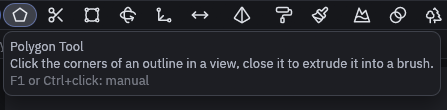
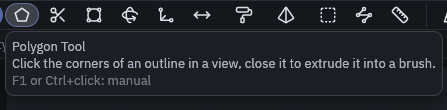
Update the interface pages for the new layout, tool row and first run card
The Panels table says what starts closed and where each panel opens, the interface page describes the loop strip, the first start card and the two tool families, and the pages that pointed at a tab next to another now say to open it from View > Panels. The mcp page lists the new get_state fields. Screenshots of the window, the panels menu, the empty map card, the README banner and the toolbar crops that moved are retaken.

diff --git a/docs/editor/interface.md b/docs/editor/interface.md
@@ -10,6 +10,11 @@ shows you around, and [Coming from Unity or Blender](coming-from-unity-blender.m
 The menus are at the top. A command sits under the kind of object it changes, so CSG is under *Brush* and terrain
 sculpting under *Terrain*.
 
+The toolbar under the menus starts with New, Open, Save, Undo and Redo, then the tools in two families. The brush
+tools come first: Select, Polygon, Clip, Vertex, Rotate, Scale and Shear, then Texture and Mesh, then Volume, Path and
+Measure. After a divider come the terrain and paint tools, Sculpt, Blend, Paint and Scatter. Grid, Snap, the CSG
+buttons and the shading toggles follow. The *Tools* menu lists the same tools in the same order.
+
 Can't find something? Press Ctrl+Shift+P (or F1) for the command palette and type its name. Commands with a jargon
 name, like *Hollow* or *UV Lock*, explain themselves when you hover them, and the palette shows the same line beneath
 its list. Escape or a click outside closes it without running anything.
@@ -23,37 +28,56 @@ use a tool that has none. Hover the tool's name there, or its button in the tool
 
 ### The empty map card
 
-On a new, empty map a card in the 3D view tells you where to start: drag in the Top view to draw your first box, and
-the Top view marks the spot with a yellow label. Below that it explains the 3D camera and links the
-[getting started guide](../getting-started.md). When the open project has maps, **Open a map from this project**
+On a new, empty map a card in the 3D view tells you where to start. Under the title it shows the loop TrenchDot is
+built around, **Block out**, **Texture it**, **Add entities** and **Play in Godot**, then says to drag in the Top view
+to draw your first box, and the Top view marks the spot with a yellow label. Below that it explains the 3D camera and
+links [Build your first room](../getting-started.md). When the open project has maps, **Open a map from this project**
 lists them, so you can open a finished one instead.
 
-![The empty map card in the 3D view with Getting Started Guide, Open a map from this project and Hide tips, beside the yellow label in the Top view](../assets/interface/empty-map-card.png)
+![The empty map card in the 3D view with the four steps, Build Your First Room, Open a map from this project and Hide tips, beside the yellow label in the Top view](../assets/interface/empty-map-card.png)
 
 The card goes away once the map has something in it. **Hide tips** turns the tips off, and *Tips on an empty map* in
 *File > Preferences* brings them back.
 
+#### The first start
+
+The very first time you start TrenchDot, the same card also asks which editor's keys you want, since that decides
+which keys pick the tools and what the key hints show. It has one row per
+[keymap preset](coming-from-hammer-trenchbroom.md), **TrenchBroom** (already picked), **Hammer** and **Blender**, with a
+line saying how it differs. Click a row to use that preset, or click **Skip** to keep TrenchBroom. Either way the
+question is gone for good, it is the only thing the first start asks. *File > Preferences > Keymap preset* changes the
+choice later. If you used an earlier TrenchDot, you never see it.
+
+![The first start card with the four steps, TrenchBroom picked in the keymap list above Hammer and Blender, Build Your First Room and Skip](../assets/interface/first-run-card.png)
+
 ### Panels
+
+A fresh layout opens only what the loop needs, so the views get most of the window. The rest are one click away in
+*View > Panels*, where each one opens next to a related panel, as the table says.
 
 | Panel | Dock | What it is for |
 | --- | --- | --- |
 | Outliner | Left | The map as a tree of [layers, groups](organizing.md) and objects |
-| History | Left | Every edit. Clicking one undoes it and everything after it, clicking a dimmed one redoes up to it |
 | Issues | Left | Problems found as you work, like faces with no material. Click one to select the object, most offer a fix |
 | Inspector | Right | The selection's properties, such as an entity's keys or a brush's exact position and size |
 | Entities | Right | Entity classes to drag into a view |
-| UV Editor | Right | [Exact texture placement](uv-editor.md) |
-| Scatter | Right | The models the [Scatter](scatter.md) tool paints |
 | Materials | Bottom | Your project's textures |
-| Models | Bottom | [Model files](models.md) to place |
-| Prefabs | Bottom | Ready made pieces from the [prefab library](prefab-library.md) to paste |
-| Logic | Starts closed | The [entity wiring as a graph](../gameplay/logic-graph.md), to connect entities and preview what an output sets off |
-| Reference | Starts closed | Code for using an entity class from your scripts |
+| History | Starts closed, opens next to Issues | Every edit. Clicking one undoes it and everything after it, clicking a dimmed one redoes up to it |
+| UV Editor | Starts closed, opens next to the Inspector | [Exact texture placement](uv-editor.md) |
+| Scatter | Starts closed, opens next to the Inspector | The models the [Scatter](scatter.md) tool paints. Picking the Scatter tool opens it by itself |
+| Models | Starts closed, opens next to Materials | [Model files](models.md) to place |
+| Prefabs | Starts closed, opens next to Materials | Ready made pieces from the [prefab library](prefab-library.md) to paste |
+| Logic | Starts closed, opens in the bottom dock | The [entity wiring as a graph](../gameplay/logic-graph.md), to connect entities and preview what an output sets off |
+| Reference | Starts closed, opens in the dock you last clicked in | Code for using an entity class from your scripts |
 
-Closed a panel by accident? Open it again from *View > Panels*. *Reset Layout* at the bottom of the same menu puts
-everything back where it started.
+Closed a panel by accident, or want one that starts closed? Open it from *View > Panels*. *Reset Layout* at the
+bottom of the same menu puts everything back the way a fresh install has it.
 
 ![The View menu with Panels open, the shown panels ticked and Reset Layout at the bottom](../assets/interface/view-panels-menu.png)
+
+> [!NOTE]
+> If you used TrenchDot before, you keep the layout you had, including panels that now start closed. *Reset Layout*
+> switches to the new one.
 
 ### The status bar
 

diff --git a/docs/mcp.md b/docs/mcp.md
@@ -164,6 +164,9 @@ See [Reviewing changes](editor/reviewing.md) for keeping maps in git.
 | `set_editor` `edit_symmetry` | The symmetry of the Vertex and Mesh tools, shared by both, `get_state` reports it as `editor.edit_symmetry`. It is `off`, `x`, `y` or `z` (a plane through the middle of what is edited), or an object `{axis, plane, at}` where `plane` is `center`, `world` or `custom` and `at` is the position on the axis for `custom`, alone it implies `custom`. A value replaces the whole setting, and `max` and `min` are refused since a plane on the side of an object has nothing to mirror |
 | `run_action` `move_vertices` | Follows `edit_symmetry` like a drag in the Vertex tool, and the reply has `mirrored`, the number of counterpart vertices that moved with it. If either side would turn a brush concave nothing moves |
 | `mesh_edit` `translate` | `symmetry: true` also moves the unselected vertices within half a unit of the mirror image of a moved one, in the same undo step. It uses the plane of `edit_symmetry`, centered on the mesh unless `world` or `custom`, and is an error while that is `off` |
+| `get_state` `ui.tool_buttons` | One entry per tool button in the toolbar, in toolbar order, as `{tool, family, rect}`. `family` is `brush` for the brush tools, Texture, Mesh, Volume, Path and Measure, and `terrain` for Sculpt, Blend, Paint and Scatter. Rects are in screen points, multiply by `ui.pixels_per_point` for pixels of a window `screenshot` |
+| `get_state` `ui.panels` | The open panel tabs as `{panel, shown}`, where `panel` is the English tab name, such as `Outliner` or `Materials`, and `shown` is true for the tab at the front of its dock. The views are not listed, and a panel that starts closed, like `History` or `Scatter`, appears once it is opened |
+| `get_state` `ui.first_run` | `null`, or while the first start card is up, its `rect`, one `{preset, rect, selected}` per keymap preset and the `skip` rect. Click a preset or `skip` with `simulate_input` at the middle of its rect to answer it |
 | `get_state` `mirror_planes` | The mirror planes of the selected linked groups, the ones the views draw, as `{axis, at, group, partner}` |
 | `validate_map` | Accepts any method or property of the target's Godot class or script as an input. `coplanar_faces` flags faces that will flicker. Every issue has `bounds`. `path` checks a saved map without opening it, `project: true` checks every map in the project |
 | `run_action` `place_entities` | Takes `args.classnames`, and `at` and `normal` to rest the entities on a surface the way a drag from the Entities tab does. No classnames is an error |

diff --git a/docs/editor/organizing.md b/docs/editor/organizing.md
@@ -147,7 +147,7 @@ Export > .map, cordon only…* writes just the objects inside it.
 
 ## Issues
 
-The Issues panel, the tab beside the Outliner and History, checks the map while you work. It lists problems that
+The Issues panel, the tab beside the Outliner, checks the map while you work. It lists problems that
 would break or look wrong in Godot, such as brushes with no volume, faces with no material, or outputs aimed at a
 targetname nothing has.
 
@@ -165,7 +165,8 @@ it can. Some warnings need more than a click:
 
 ## History
 
-The History panel lists every edit, newest at the top. Click an older entry to undo back to it, that entry included.
+The History panel lists every edit, newest at the top. It starts closed, open it from *View > Panels* and it appears
+next to Issues. Click an older entry to undo back to it, that entry included.
 Undone edits stay dimmed above *current*, click one to redo up to it.
 
 ![The History panel with Rename and Group dimmed above the current marker and the Hollow entry hovered](../assets/organizing/history-panel.png)

diff --git a/docs/editor/prefab-library.md b/docs/editor/prefab-library.md
@@ -1,8 +1,8 @@
 # Prefab library
 
-The **Prefabs** tab at the bottom, next to Materials and Models, holds ready made pieces to paste into a map: stairs,
-doorways, pillars, small rooms and details. Think of the prefab collections TrenchBroom mappers copy from, only built
-into the editor.
+The **Prefabs** tab holds ready made pieces to paste into a map: stairs, doorways, pillars, small rooms and details.
+Think of the prefab collections TrenchBroom mappers copy from, only built into the editor. It starts closed, so open it
+from *View > Panels*, and it appears at the bottom next to Materials.
 
 ![The Prefabs tab with Search prefabs, the category list, the card size slider and a card for every built-in piece, the Switchback stair hovered with its tooltip: Stairs/Switchback stair, 192 × 128 × 352 units, Built in](../assets/prefab-library/prefabs-panel.png)
 

diff --git a/docs/editor/models.md b/docs/editor/models.md
@@ -3,8 +3,8 @@
 Models are 3D files made in another program, like Blender or Blockbench. TrenchDot reads glTF, OBJ, Blockbench,
 STL, MD2 and MD3 files.
 
-You find them in the **Models** tab at the bottom, next to Materials and Prefabs. It lists everything under
-`res://models`, plus the nature models in `res://trenchdot/nature` once you installed them.
+You find them in the **Models** tab. It starts closed, so open it from *View > Panels*, and it appears at the bottom
+next to Materials. It lists everything under `res://models`, plus the nature models in `res://trenchdot/nature` once you installed them.
 
 ![The Models tab: search field, folder and source filters, Sort, Slugs, the thumbnail size slider, Fit, the size multiplier, the rescan button and Import…, above a grid of nature model thumbnails](../assets/models/models-panel.png)
 

diff --git a/docs/editor/uv-editor.md b/docs/editor/uv-editor.md
@@ -6,9 +6,9 @@ like placing mesh UVs to the pixel.
 
 ## Opening it
 
-The UV Editor is a tab in the right panel, next to the Inspector, and *Texture > UV Editor* brings it up too. Then
-select faces: Shift+click one in a view, or use the Texture tool. The top line names the material and how many faces
-you have.
+The UV Editor starts closed. *Texture > UV Editor*, or *View > Panels > UV Editor*, opens it as a tab in the right
+panel, next to the Inspector. Then select faces: Shift+click one in a view, or use the Texture tool. The top line names the
+material and how many faces you have.
 
 ![The UV Editor with one wall face selected, drawn as an orange rectangle over the tiled showcase/plaster texture](../assets/uv-editor/uv-editor-face.png)
 

diff --git a/docs/godot/entities-troubleshooting.md b/docs/godot/entities-troubleshooting.md
@@ -16,7 +16,7 @@ physics body. TrenchDot and Godot both tell you when this happens, and this page
 
 2. The Issues panel
 
-    Open the **Issues** tab, next to Outliner and History on the left. It lists each class Godot built as a plain
+    Open the **Issues** tab, next to Outliner on the left. It lists each class Godot built as a plain
     node, with the fix, and the other warnings of that build start with "Godot:". Click a row to select the entity.
 
     ![The Issues panel with two warnings, Godot built func_button and func_door as plain nodes, each saying which file to add to Base Fgd Files](../assets/entities-troubleshooting/issues-missing-classes.png)

diff --git a/docs/editor/importing.md b/docs/editor/importing.md
@@ -24,7 +24,7 @@ Save it as `.tdm` and Godot builds it like any other map.
 
 4. Check the Issues tab
 
-    Open the Issues tab at the top left, next to Outliner and History. Every material the project still lacks shows up
+    Open the Issues tab at the top left, next to Outliner. Every material the project still lacks shows up
     as a warning, and its faces draw as a checker.
 
     ![The Issues tab with two warnings, Material 'castle/brick_wall' is not in the project (12 faces), and the 3D view with those walls and steps drawn as a grey checker](../assets/importing/issues-missing-materials.png)

diff --git a/docs/gameplay/debugging.md b/docs/gameplay/debugging.md
@@ -9,7 +9,7 @@ thorough.
 
 ## 1. The Issues panel
 
-Open the **Issues** tab, next to Outliner and History on the left. It flags outputs aimed at a targetname no entity
+Open the **Issues** tab, next to Outliner on the left. It flags outputs aimed at a targetname no entity
 has, and inputs the target's class does not have. A typo in a targetname is the most common reason a door stays shut.
 
 ![The Issues panel with one error: Output triggered targets unknown entity 'hall_lihgt' on trigger_once, with a Fix button](../assets/debugging/issues-panel.png)

diff --git a/docs/editor/scatter.md b/docs/editor/scatter.md
@@ -9,7 +9,7 @@ full setup.
 ## Scatter sets
 
 Everything you scatter lives in a **scatter set** on its own layer, for example one set for trees and one for grass.
-Press B and the Scatter panel opens on the right, with a card for every model in the active set.
+Press B and the Scatter panel opens on the right, next to the Inspector, with a card for every model in the active set.
 
 ![The Scatter panel with the bushes set active: the set menu, +, Preset, Rename and a card per model](../assets/scatter/scatter-panel.png)
 
